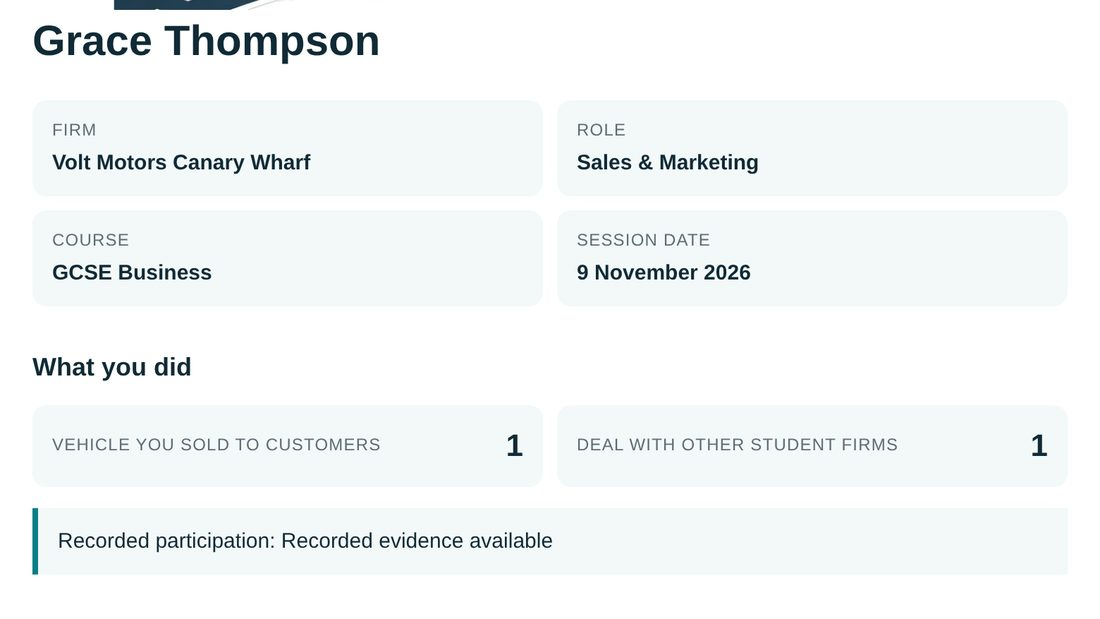
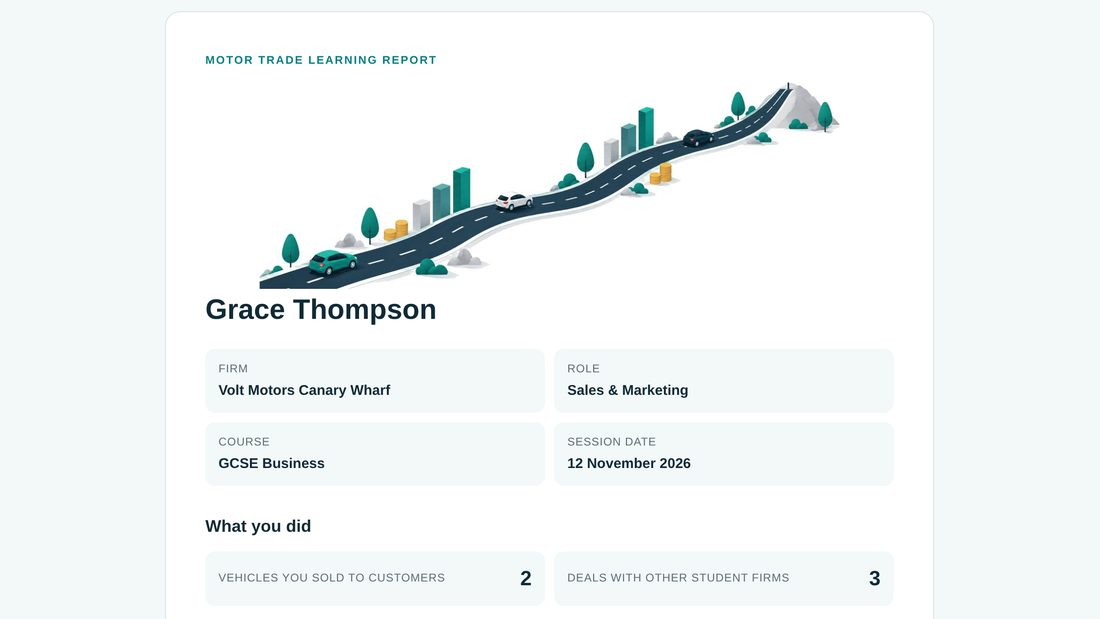
Home how-to: report and Staff pictures re-taken from game main c5156f95 (package 1116)
- howto/6-report: the pupil's report without the "Recorded participation"
  line. Built by the game's own report modules from a simulated lesson. The
  report is shorter now, so the picture shows its whole top (title,
  illustration, name, the four cards, What you did) instead of the old crop.
- howto/3b-margin: Staff in Round 1, the "Opens in Round 2" pill on the
  blurred cards in its new place (real-app harness, same shot and size).
- howto/3-deal re-taken too and came out pixel-identical, so it stays.
Both 1100x619, JPEG q82; index.html ?v= bumped to 20261112d.

Claude-Session: https://claude.ai/code/session_01Np2n7mwxyzcaQWByNZ1ReD

diff --git a/index.html b/index.html
@@ -684,7 +684,7 @@
       <p style="color:#40506e;font-size:16.5px">A revision lesson at the end of each topic, or a business activity any time (No topic).</p>
       <p style="color:#40506e;font-size:16.5px;margin-top:10px">The lesson runs step by step. The whole class works on the same step at the same time, and your screen shows how many firms are done.</p>
     </div>
-    <div class="hs-wrap"><div class="hs"><div class="hs-list" role="tablist" aria-label="How a lesson runs"><button class="hs-item" type="button" role="tab" aria-selected="true" data-i="0"><span class="hs-n">01</span><span><span class="hs-t">Students join with a PIN</span><span class="hs-d">You pick the class and the lesson length. The whole class joins with one PIN.</span></span></button><button class="hs-item" type="button" role="tab" aria-selected="false" data-i="1"><span class="hs-n">02</span><span><span class="hs-t">Each firm votes where to open</span><span class="hs-d">Everyone votes. Most votes wins.</span></span></button><button class="hs-item" type="button" role="tab" aria-selected="false" data-i="2"><span class="hs-n">03</span><span><span class="hs-t">Everyone deals</span><span class="hs-d">Students buy, price and negotiate face to face.</span></span></button><button class="hs-item" type="button" role="tab" aria-selected="false" data-i="3"><span class="hs-n">04</span><span><span class="hs-t">Every round, the same order</span><span class="hs-d">Firm decisions, deals with classmates, topic tasks, then a B2B deal between firms.</span></span></button><button class="hs-item" type="button" role="tab" aria-selected="false" data-i="4"><span class="hs-n">05</span><span><span class="hs-t">You see every firm live</span><span class="hs-d">Pause and Stop are one click away.</span></span></button><button class="hs-item" type="button" role="tab" aria-selected="false" data-i="5"><span class="hs-n">06</span><span><span class="hs-t">Questions, then the winner</span><span class="hs-d">Six final questions, then the podium.</span></span></button><button class="hs-item" type="button" role="tab" aria-selected="false" data-i="6"><span class="hs-n">07</span><span><span class="hs-t">Every student gets a report</span><span class="hs-d">You download the class pack.</span></span></button></div><div class="hs-view"><div class="hs-frame"><i class="hs-corner tl"></i><i class="hs-corner tr"></i><i class="hs-corner bl"></i><i class="hs-corner br"></i><div class="hs-stack"><img class="hs-img on" src="/assets/tbs-web/howto/1-join.jpg?v=20261112c" alt="Students join with a PIN" width="1100" height="619"><img class="hs-img" src="/assets/tbs-web/howto/2-location.jpg?v=20261110" alt="Each firm votes where to open" loading="lazy" width="1100" height="619"><img class="hs-img" src="/assets/tbs-web/howto/3-deal.jpg?v=20261112" alt="Everyone deals" loading="lazy" width="1100" height="619"><img class="hs-img" src="/assets/tbs-web/howto/3b-margin.jpg?v=20261112" alt="Every round, the same order" loading="lazy" width="1100" height="619"><img class="hs-img" src="/assets/tbs-web/howto/4-teacher.jpg?v=20261112" alt="You see every firm live" loading="lazy" width="1100" height="619"><img class="hs-img" src="/assets/tbs-web/howto/5-winner.jpg?v=20261112" alt="Questions, then the winner" loading="lazy" width="1100" height="619"><img class="hs-img" src="/assets/tbs-web/howto/6-report.jpg?v=20261110" alt="Every student gets a report" loading="lazy" width="1100" height="619"></div><div class="hs-bar"><i></i></div></div><p class="hs-cap" aria-live="polite"></p></div></div></div>
+    <div class="hs-wrap"><div class="hs"><div class="hs-list" role="tablist" aria-label="How a lesson runs"><button class="hs-item" type="button" role="tab" aria-selected="true" data-i="0"><span class="hs-n">01</span><span><span class="hs-t">Students join with a PIN</span><span class="hs-d">You pick the class and the lesson length. The whole class joins with one PIN.</span></span></button><button class="hs-item" type="button" role="tab" aria-selected="false" data-i="1"><span class="hs-n">02</span><span><span class="hs-t">Each firm votes where to open</span><span class="hs-d">Everyone votes. Most votes wins.</span></span></button><button class="hs-item" type="button" role="tab" aria-selected="false" data-i="2"><span class="hs-n">03</span><span><span class="hs-t">Everyone deals</span><span class="hs-d">Students buy, price and negotiate face to face.</span></span></button><button class="hs-item" type="button" role="tab" aria-selected="false" data-i="3"><span class="hs-n">04</span><span><span class="hs-t">Every round, the same order</span><span class="hs-d">Firm decisions, deals with classmates, topic tasks, then a B2B deal between firms.</span></span></button><button class="hs-item" type="button" role="tab" aria-selected="false" data-i="4"><span class="hs-n">05</span><span><span class="hs-t">You see every firm live</span><span class="hs-d">Pause and Stop are one click away.</span></span></button><button class="hs-item" type="button" role="tab" aria-selected="false" data-i="5"><span class="hs-n">06</span><span><span class="hs-t">Questions, then the winner</span><span class="hs-d">Six final questions, then the podium.</span></span></button><button class="hs-item" type="button" role="tab" aria-selected="false" data-i="6"><span class="hs-n">07</span><span><span class="hs-t">Every student gets a report</span><span class="hs-d">You download the class pack.</span></span></button></div><div class="hs-view"><div class="hs-frame"><i class="hs-corner tl"></i><i class="hs-corner tr"></i><i class="hs-corner bl"></i><i class="hs-corner br"></i><div class="hs-stack"><img class="hs-img on" src="/assets/tbs-web/howto/1-join.jpg?v=20261112c" alt="Students join with a PIN" width="1100" height="619"><img class="hs-img" src="/assets/tbs-web/howto/2-location.jpg?v=20261110" alt="Each firm votes where to open" loading="lazy" width="1100" height="619"><img class="hs-img" src="/assets/tbs-web/howto/3-deal.jpg?v=20261112" alt="Everyone deals" loading="lazy" width="1100" height="619"><img class="hs-img" src="/assets/tbs-web/howto/3b-margin.jpg?v=20261112d" alt="Every round, the same order" loading="lazy" width="1100" height="619"><img class="hs-img" src="/assets/tbs-web/howto/4-teacher.jpg?v=20261112" alt="You see every firm live" loading="lazy" width="1100" height="619"><img class="hs-img" src="/assets/tbs-web/howto/5-winner.jpg?v=20261112" alt="Questions, then the winner" loading="lazy" width="1100" height="619"><img class="hs-img" src="/assets/tbs-web/howto/6-report.jpg?v=20261112d" alt="Every student gets a report" loading="lazy" width="1100" height="619"></div><div class="hs-bar"><i></i></div></div><p class="hs-cap" aria-live="polite"></p></div></div></div>
     <div style="display:flex;gap:14px;justify-content:center;flex-wrap:wrap;margin-top:8px">
       <a href="/trial/" style="display:inline-block;background:#0a6b73;color:#fff;font-weight:700;border-radius:12px;padding:19px 38px;text-decoration:none;font-size:20px;box-shadow:0 8px 24px rgba(10,107,115,.35)">Request a trial</a>
       <a href="https://play.thebusiness.school/demo/group-classroom/" style="display:inline-block;background:#fff;color:#0e2038;border:1px solid #c9d3df;font-weight:700;border-radius:12px;padding:19px 30px;text-decoration:none;font-size:18px">Try the Teacher Demo</a>
